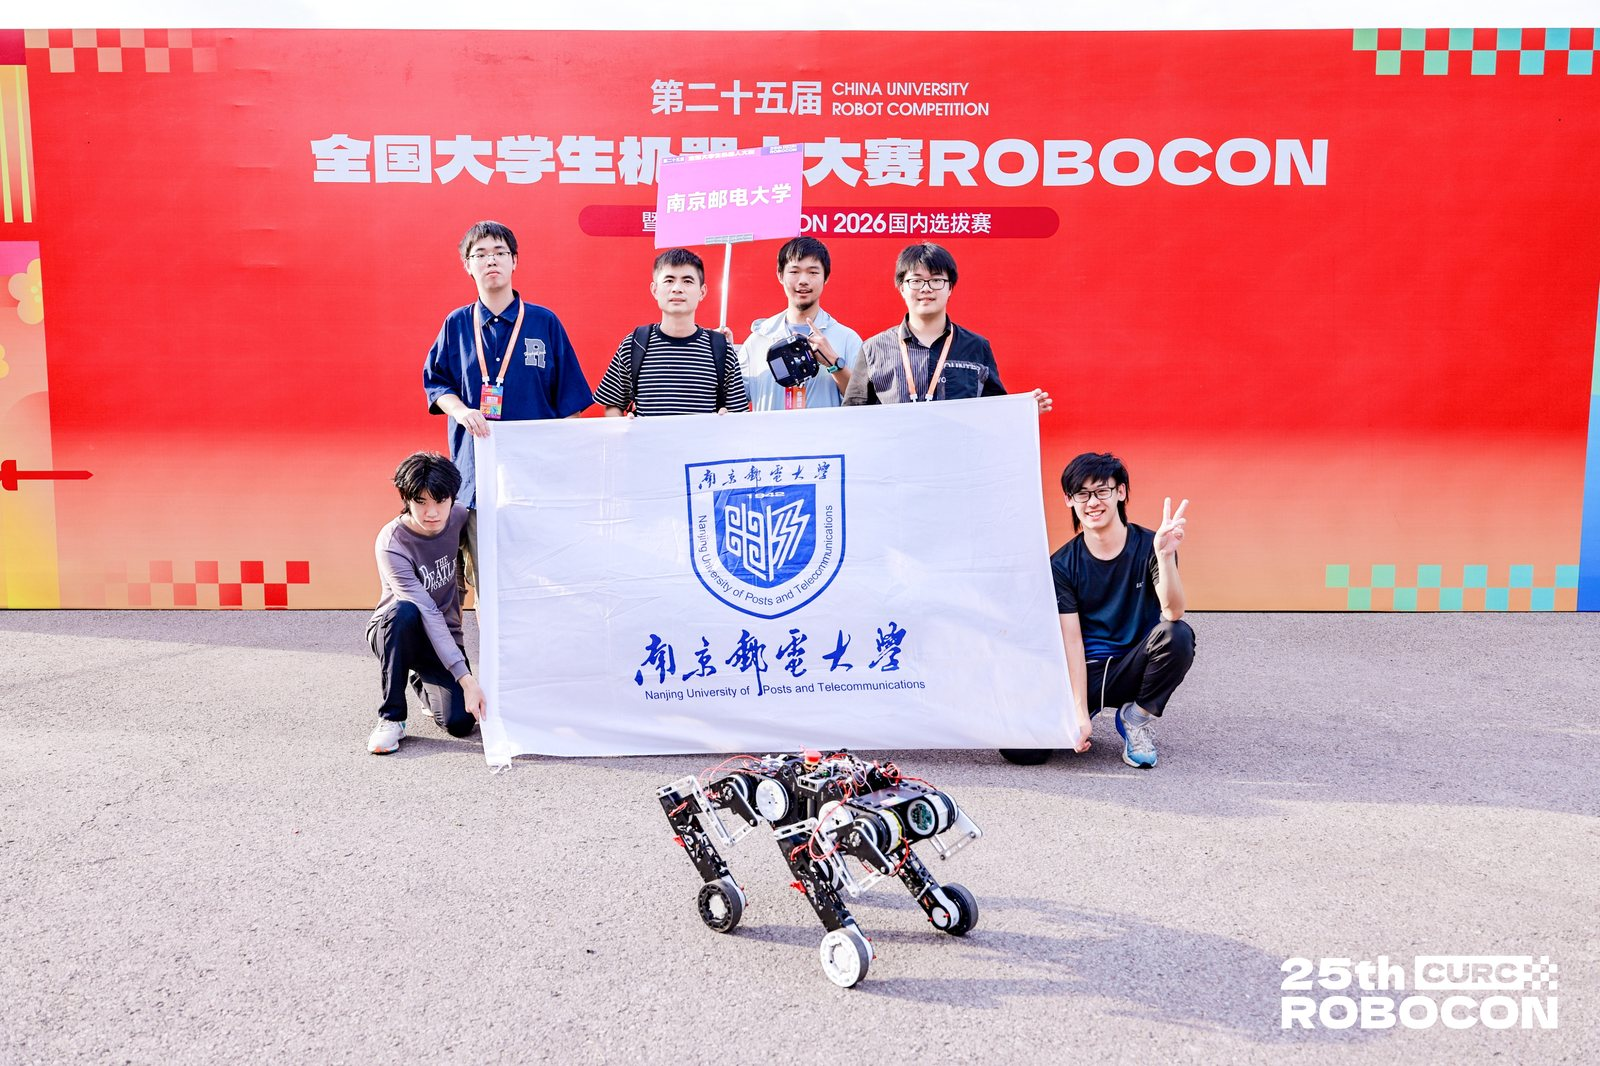
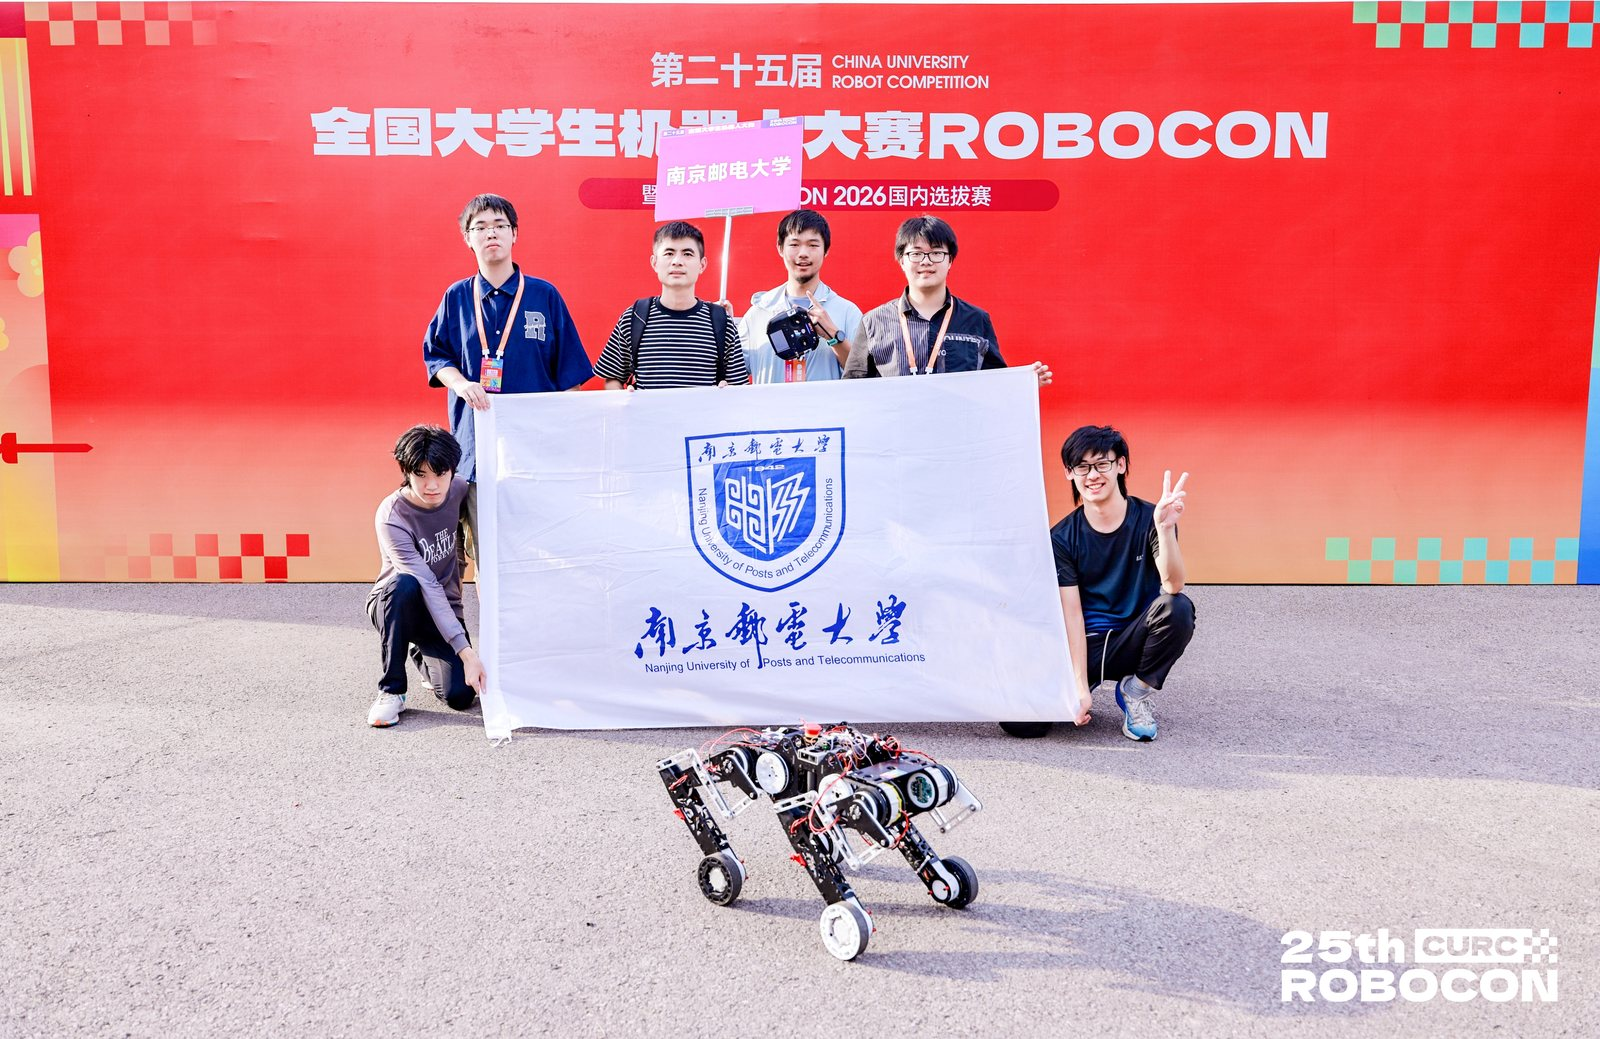
fix: 裁掉合照顶部白边，保证 Hero 直接露出红底赛场

diff --git a/index.html b/index.html
@@ -82,7 +82,7 @@
             <img
               src="assets/team-robocon-2026.jpg"
               width="1600"
-              height="1066"
+              height="1039"
               alt="NJUPT Initial 战队在第二十五届全国大学生机器人大赛 ROBOCON 现场合影，前方为轮足四足机器人"
               loading="eager"
               decoding="async"

diff --git a/styles.css b/styles.css
@@ -570,7 +570,7 @@ code {
   height: auto;
   aspect-ratio: 3 / 2;
   object-fit: cover;
-  object-position: center 35%;
+  object-position: center 28%;
   display: block;
 }
 
